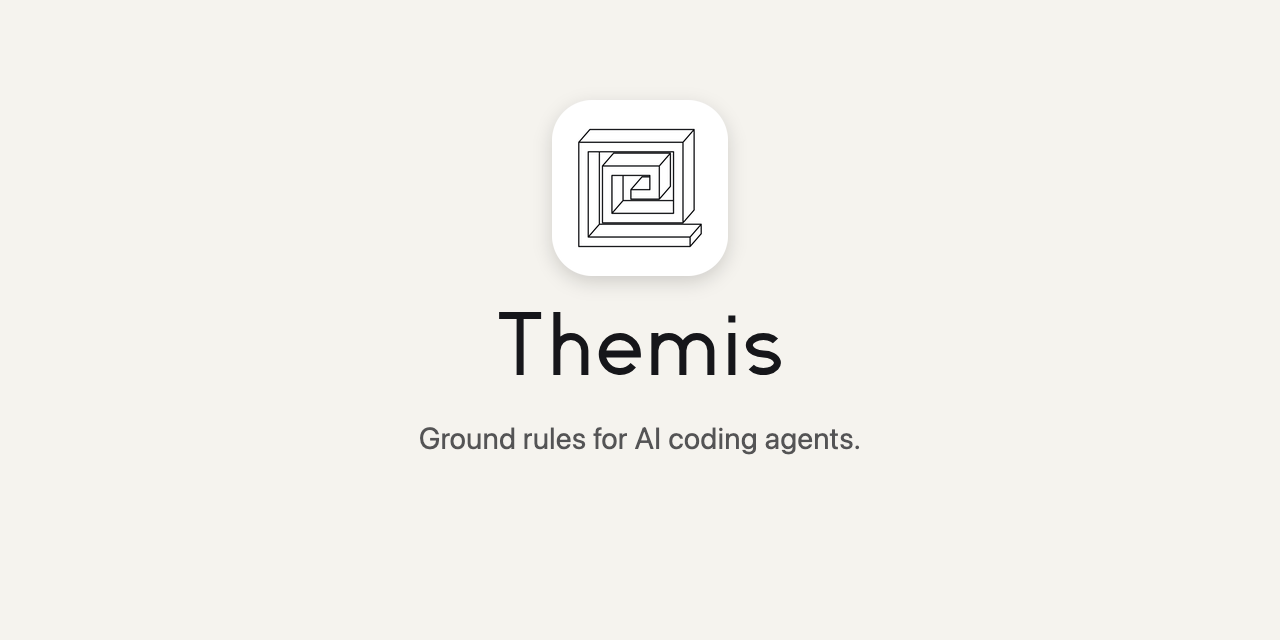
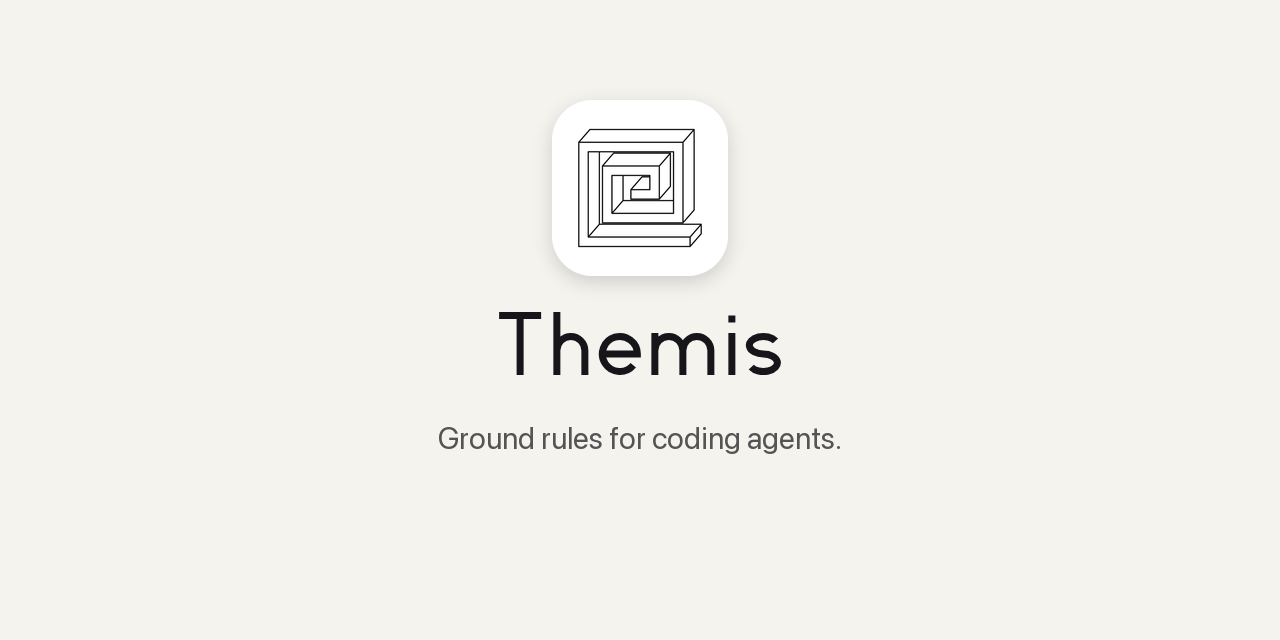
Say coding agents, not AI coding agents: README and the social card

Changed region(s): [[0.3125, 0.6562, 0.6875, 0.7188]]

diff --git a/README.md b/README.md
@@ -7,7 +7,7 @@
 
 **Named for the Greek goddess of law and order. Built to keep AI-written code in line.**
 
-Themis gives AI coding agents a shared set of repository rules, backed by a small Python checker. A Git hook checks file and function size, flags history-style comments, requires a header on every new source file, and catches common secret patterns before a commit. An optional CI check provides a second check on proposed changes. Set a test command and a gate runs your own tests on the committed tree in CI and fails on errors, zero tests, too few tests or too many skips.
+Themis gives coding agents a shared set of repository rules, backed by a small Python checker. A Git hook checks file and function size, flags history-style comments, requires a header on every new source file, and catches common secret patterns before a commit. An optional CI check provides a second check on proposed changes. Set a test command and a gate runs your own tests on the committed tree in CI and fails on errors, zero tests, too few tests or too many skips.
 
 The rules and checker live in your repository. No hosted service and no third-party Python dependencies.
 
